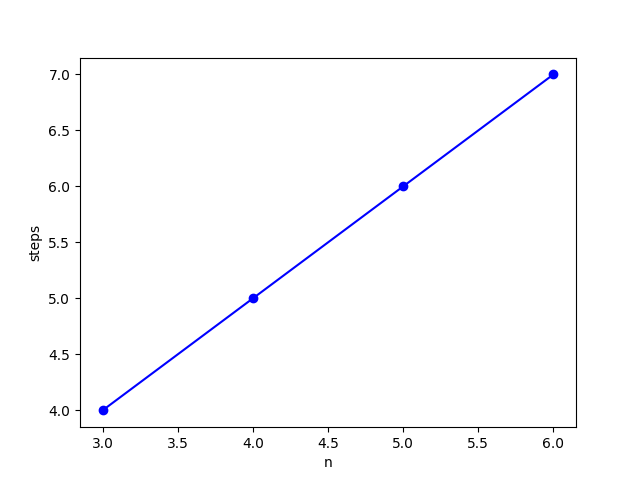
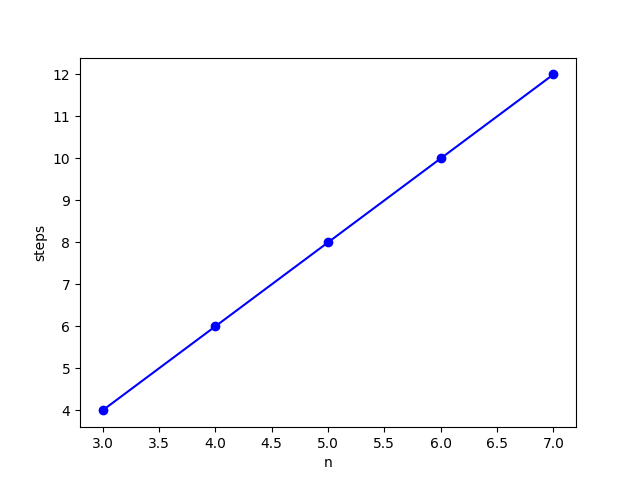
plots

diff --git a/report/parts/2.0-palíndromos.tex b/report/parts/2.0-palíndromos.tex
@@ -112,8 +112,14 @@ Al conocer $T_{\mathrm{0A}}(n)$, si asumimos $n_0 = 10$, obtenemos $k \geq \frac
     O_{\mathrm{0A}}(n) = \frac{131}{50} n^2
 \end{equation}
 
+Se puede observar la cota en comparación con el coste computacional en la Figura \ref{fig:MT-0A_plot} (asumiendo $n_0 = 10$).
 
-% TODO: Pintar cota asintótica y coste computacional
+\begin{figure}[h]
+    \centering
+    \includegraphics[width=0.6\textwidth]{plot_MT-0A_complexity.png}
+    \caption{Coste computacional de MT-0A}
+    \label{fig:MT-0A_plot}
+\end{figure}
 
 
 %----------
@@ -216,7 +222,15 @@ Al conocer $T_{\mathrm{0B}}(n)$, podemos afirmar que $g(n) = n$. Si asumimos $n_
     O_{\mathrm{0B}}(n) = \frac{33}{10} n
 \end{equation}
 
-% TODO: Pintar cota asintótica y coste computacional
+
+Se puede observar la cota en comparación con el coste computacional en la Figura \ref{fig:MT-0B_plot} (asumiendo $n_0 = 10$).
+
+\begin{figure}[h]
+    \centering
+    \includegraphics[width=0.6\textwidth]{plot_MT-0B_complexity.png}
+    \caption{Coste computacional de MT-0B}
+    \label{fig:MT-0B_plot}
+\end{figure}
 
 
 %----------
@@ -302,4 +316,11 @@ Al conocer $T_{\mathrm{0B}}(n)$, podemos afirmar que $g(n) = n$. Si asumimos $n_
     O_{\mathrm{0B}}(n) = \frac{12}{10} n
 \end{equation}
 
-% TODO: Pintar cota asintótica y coste computacional
+Se puede observar la cota en comparación con el coste computacional en la Figura \ref{fig:MT-0C_plot} (asumiendo $n_0 = 10$).
+
+\begin{figure}[h]
+    \centering
+    \includegraphics[width=0.6\textwidth]{plot_MT-0C_complexity.png}
+    \caption{Coste computacional de MT-0C}
+    \label{fig:MT-0C_plot}
+\end{figure}

diff --git a/report/parts/2.1-base1.tex b/report/parts/2.1-base1.tex
@@ -101,6 +101,16 @@ Al conocer $T_{\mathrm{1A}}(n)$, podemos afirmar que $g(n) = n$. Si asumimos $n_
 \end{equation}
 
 
+Se puede observar la cota en comparación con el coste computacional en la Figura \ref{fig:MT-1A_plot} (asumiendo $n_0 = 10$).
+
+\begin{figure}[h]
+    \centering
+    \includegraphics[width=0.6\textwidth]{plot_MT-1A_complexity.png}
+    \caption{Coste computacional de MT-1A}
+    \label{fig:MT-1A_plot}
+\end{figure}
+
+
 %----------
 % MT-1B
 %----------
@@ -197,7 +207,16 @@ Resolviendo, $a = 2$ y $b = -2$, por lo que:
 \end{equation}
 
 \subsubsection*{Cota asintótica}
-Al conocer $T_{\mathrm{1B}}(n)$, podemos afirmar que $g(n) = n$. Si asumimos $n_0 = 10$, obtenemos $k \geq \frac{11}{10}$, por lo que la cota asintótica (definida en la ecuación \ref{eq:On}) para esta máquina es:
+Al conocer $T_{\mathrm{1B}}(n)$, podemos afirmar que $g(n) = n$. Si asumimos $n_0 = 10$, obtenemos $k \geq \frac{18}{10}$, por lo que la cota asintótica (definida en la ecuación \ref{eq:On}) para esta máquina es:
 \begin{equation}
     T_{\mathrm{1A}}(n) = \frac{18}{10} n
 \end{equation}
+
+Se puede observar la cota en comparación con el coste computacional en la Figura \ref{fig:MT-1B_plot} (asumiendo $n_0 = 10$).
+
+\begin{figure}[h]
+    \centering
+    \includegraphics[width=0.6\textwidth]{plot_MT-1B_complexity.png}
+    \caption{Coste computacional de MT-1B}
+    \label{fig:MT-1B_plot}
+\end{figure}

diff --git a/src/test.py b/src/test.py
@@ -205,7 +205,6 @@ if __name__ == "__main__":
                     "111$1",
                     "1111$1",
                     "11111$1"
-
                 ]
 
             case _:
@@ -246,8 +245,8 @@ if __name__ == "__main__":
             "O(n)": lambda n : (47/10)*n
         },
         'MT-1B':{
-            "T(n)": lambda n : n + 1,
-            "O(n)": lambda n : (11/10)*n
+            "T(n)": lambda n : 2*n - 2,
+            "O(n)": lambda n : (18/10)*n
         }
     }
 

diff --git a/report/parts/2-desarrollo.tex b/report/parts/2-desarrollo.tex
@@ -5,7 +5,7 @@
 \input{parts/2.0-palíndromos.tex}
 \newpage
 \input{parts/2.1-base1.tex}
-
+\newpage
 \input{parts/2.2-base2.tex}
 
 
